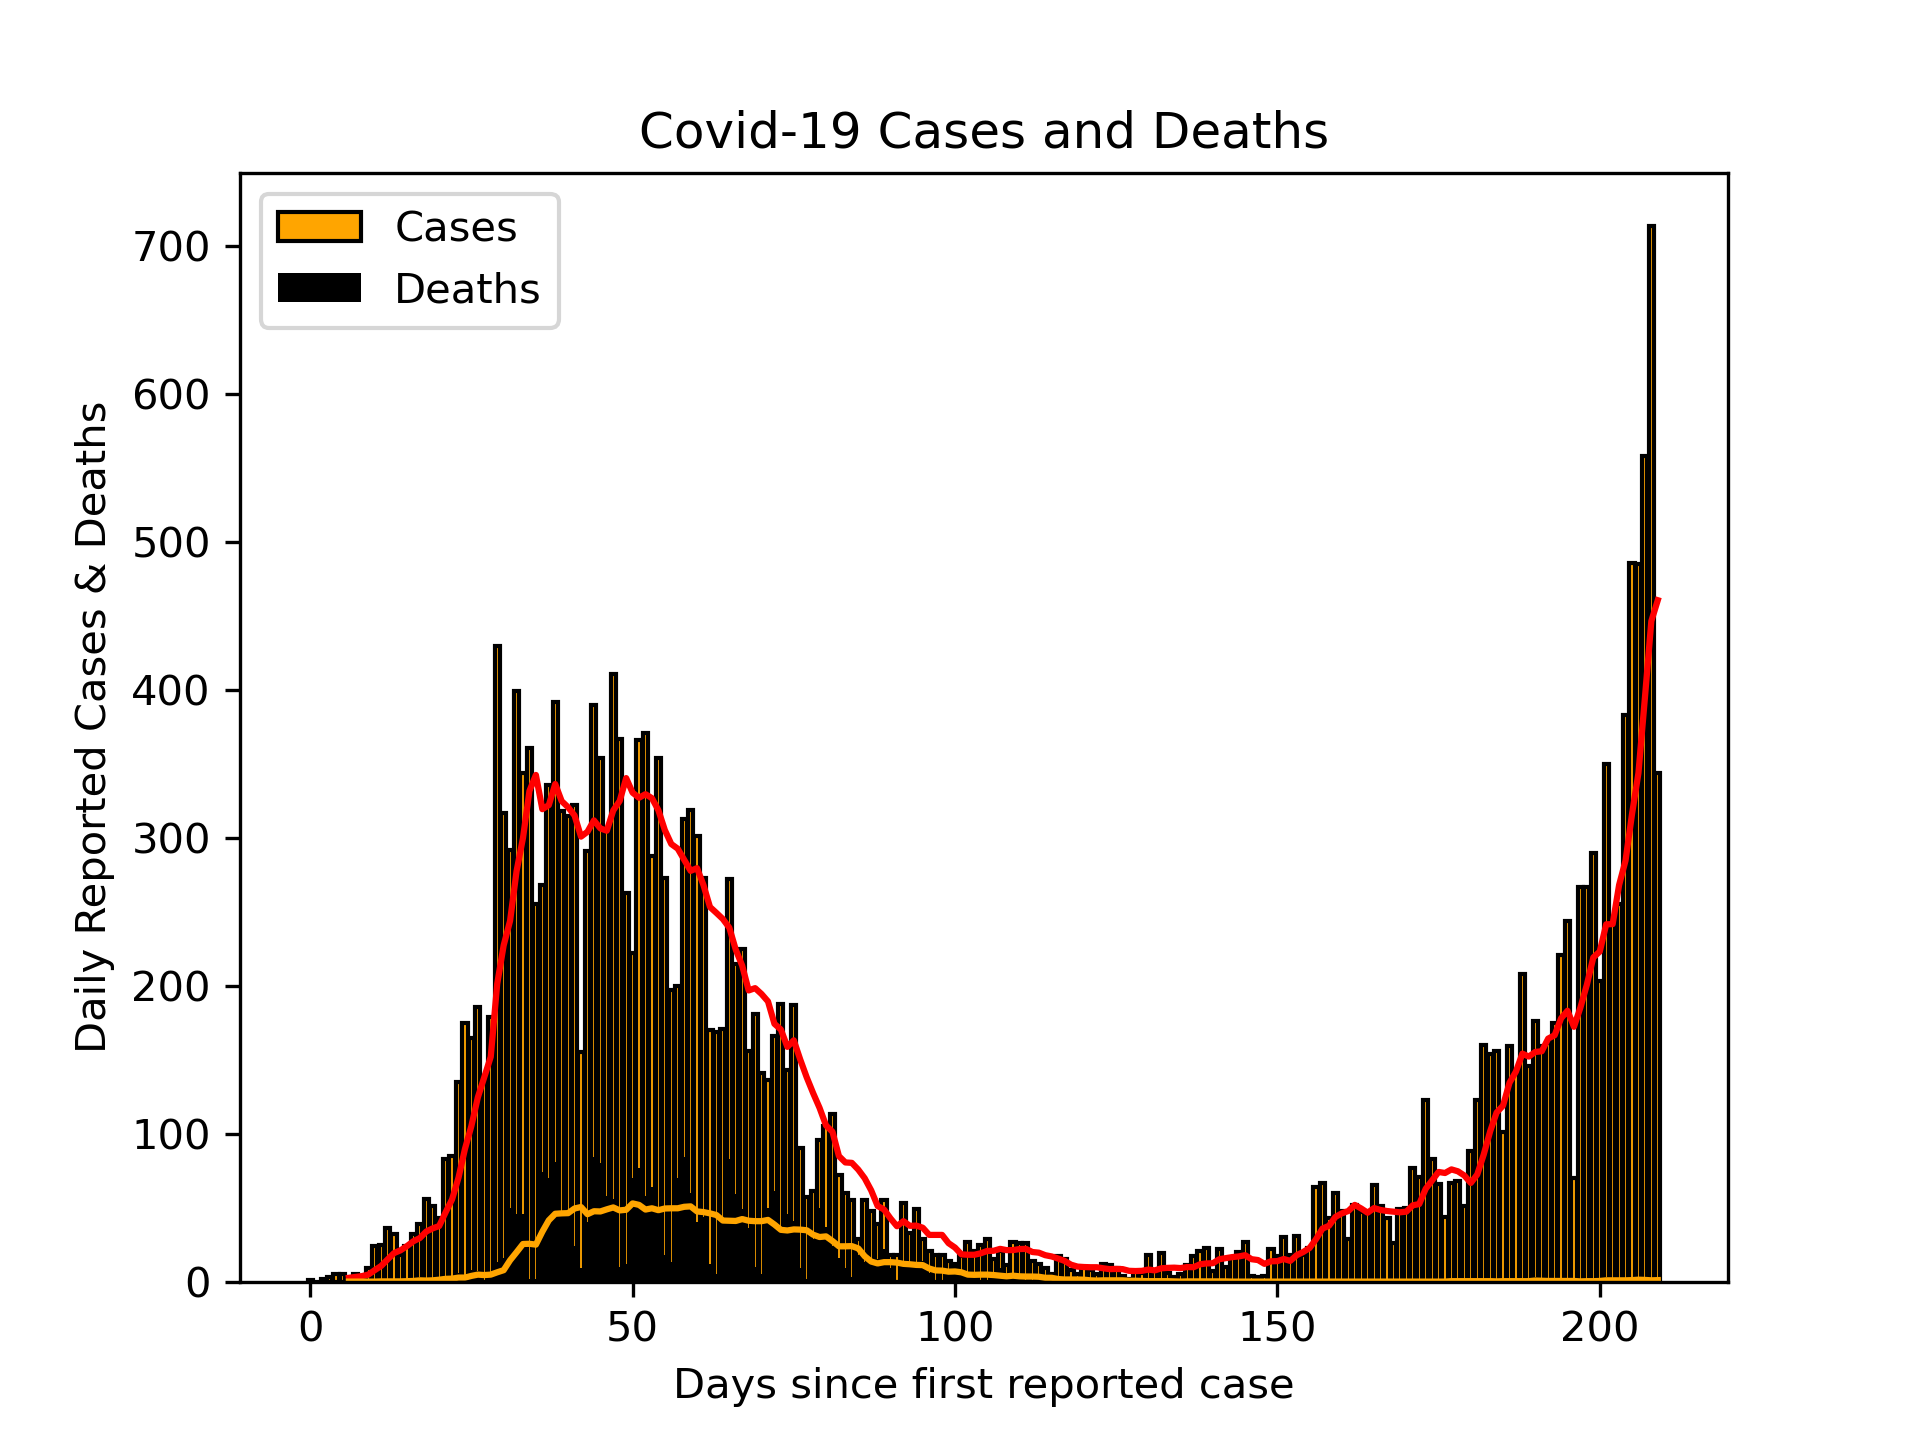
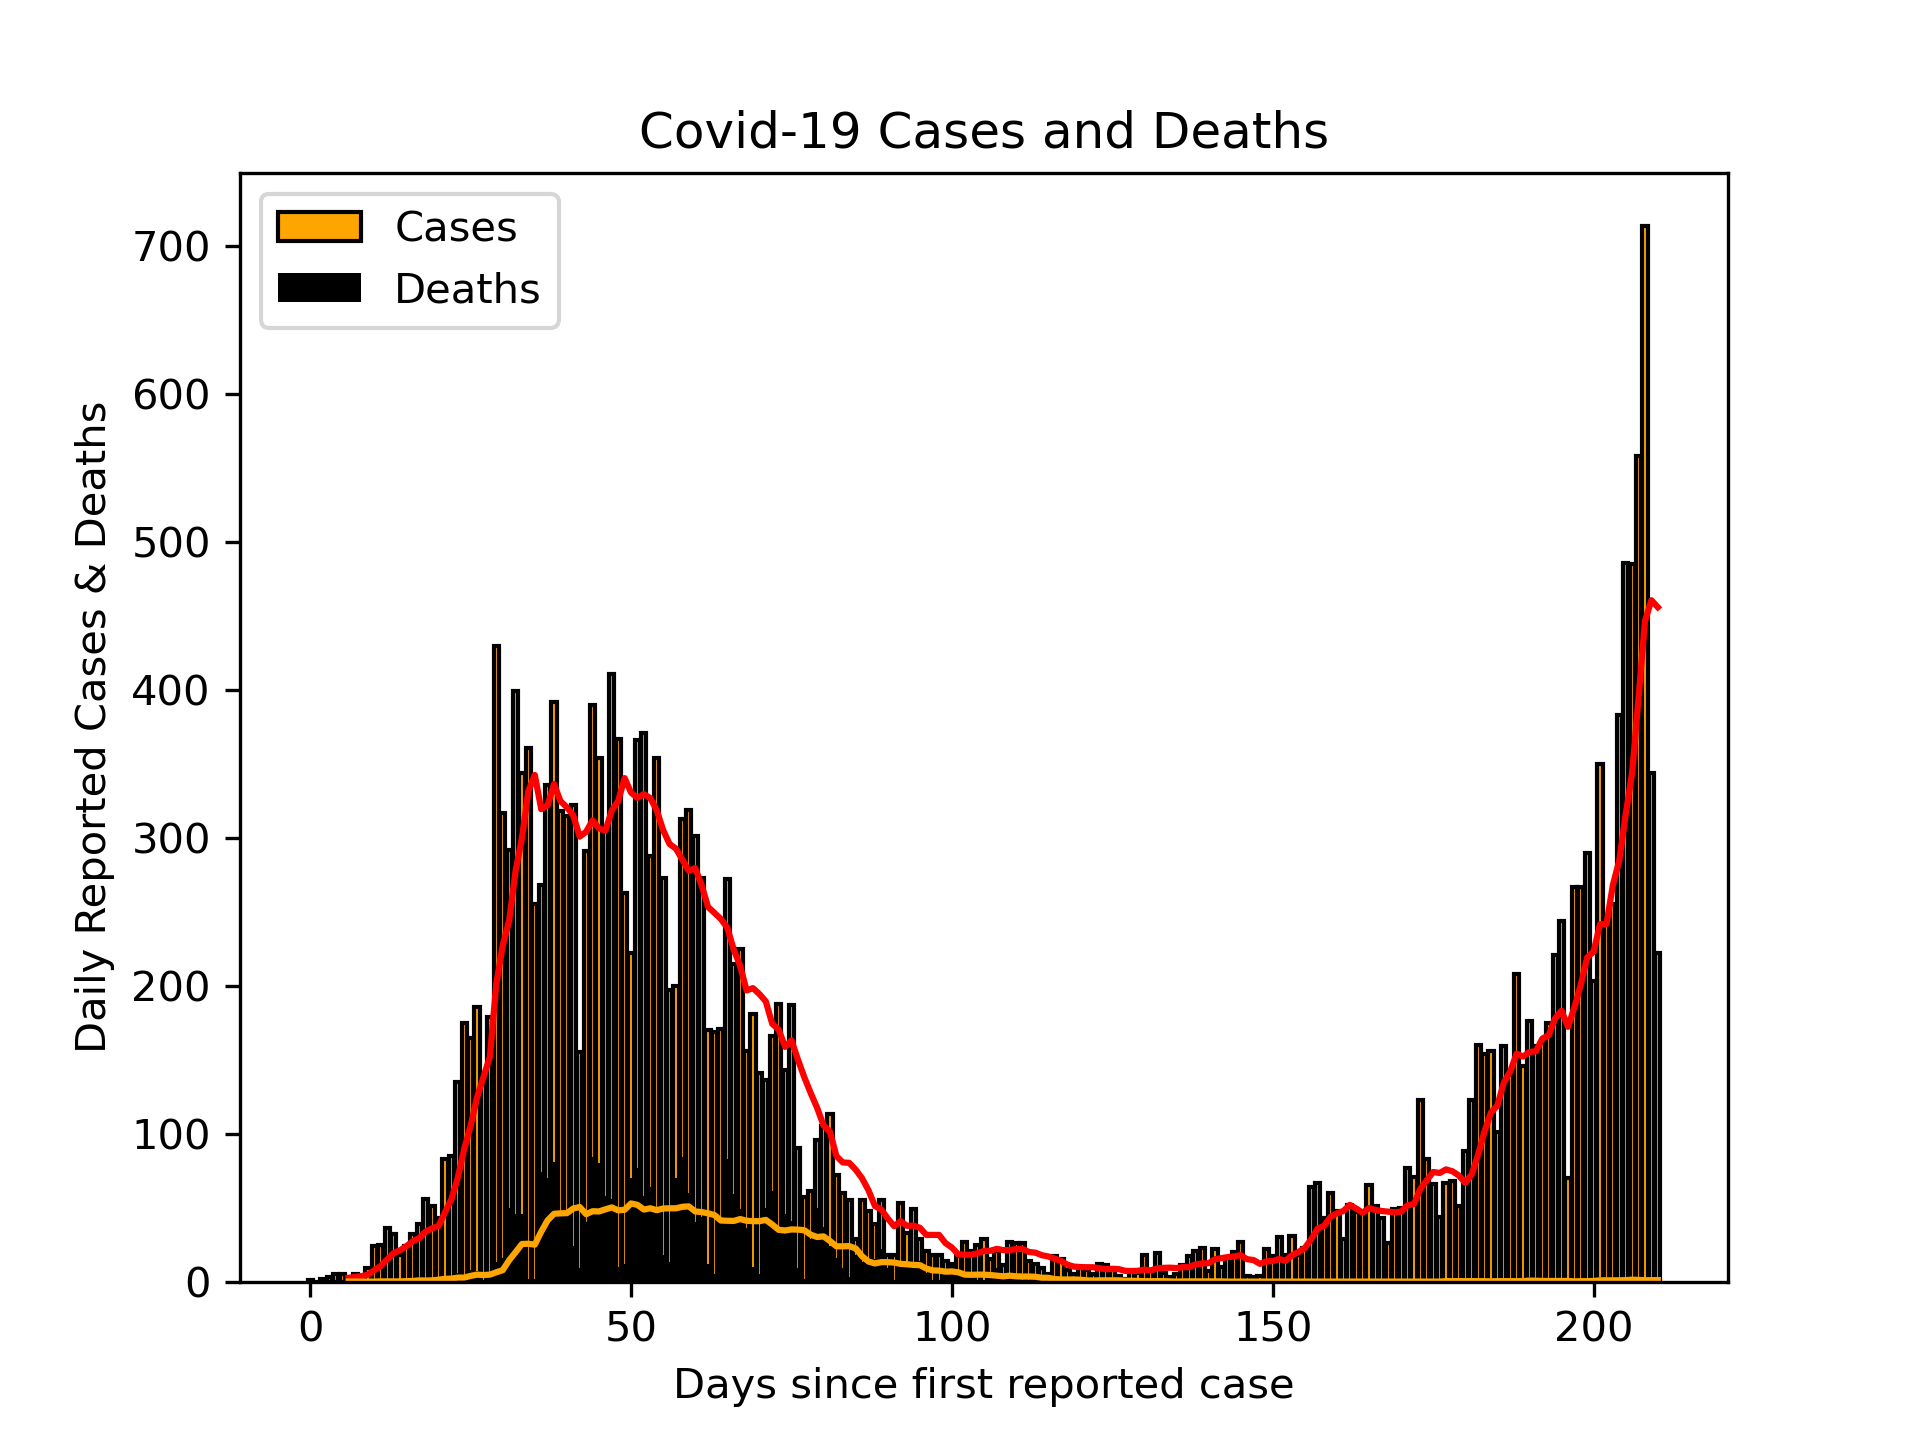
Updated SCottish cases 28/09/20

diff --git a/README.md b/README.md
@@ -1,3 +1,3 @@
-# Scottish Cases 27/09/20
+# Scottish Cases 28/09/20
 ![alt](scottish_cases.png)
 
